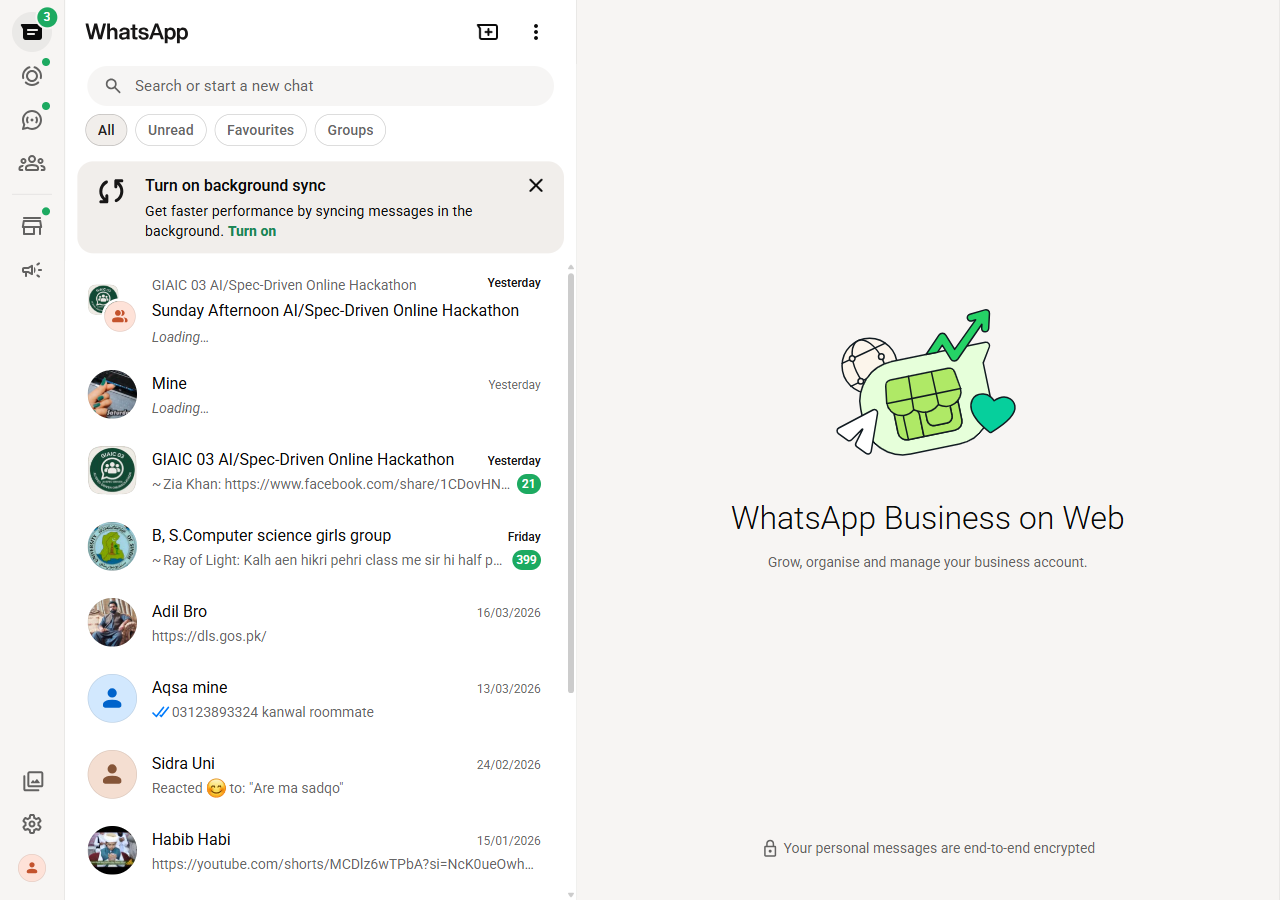
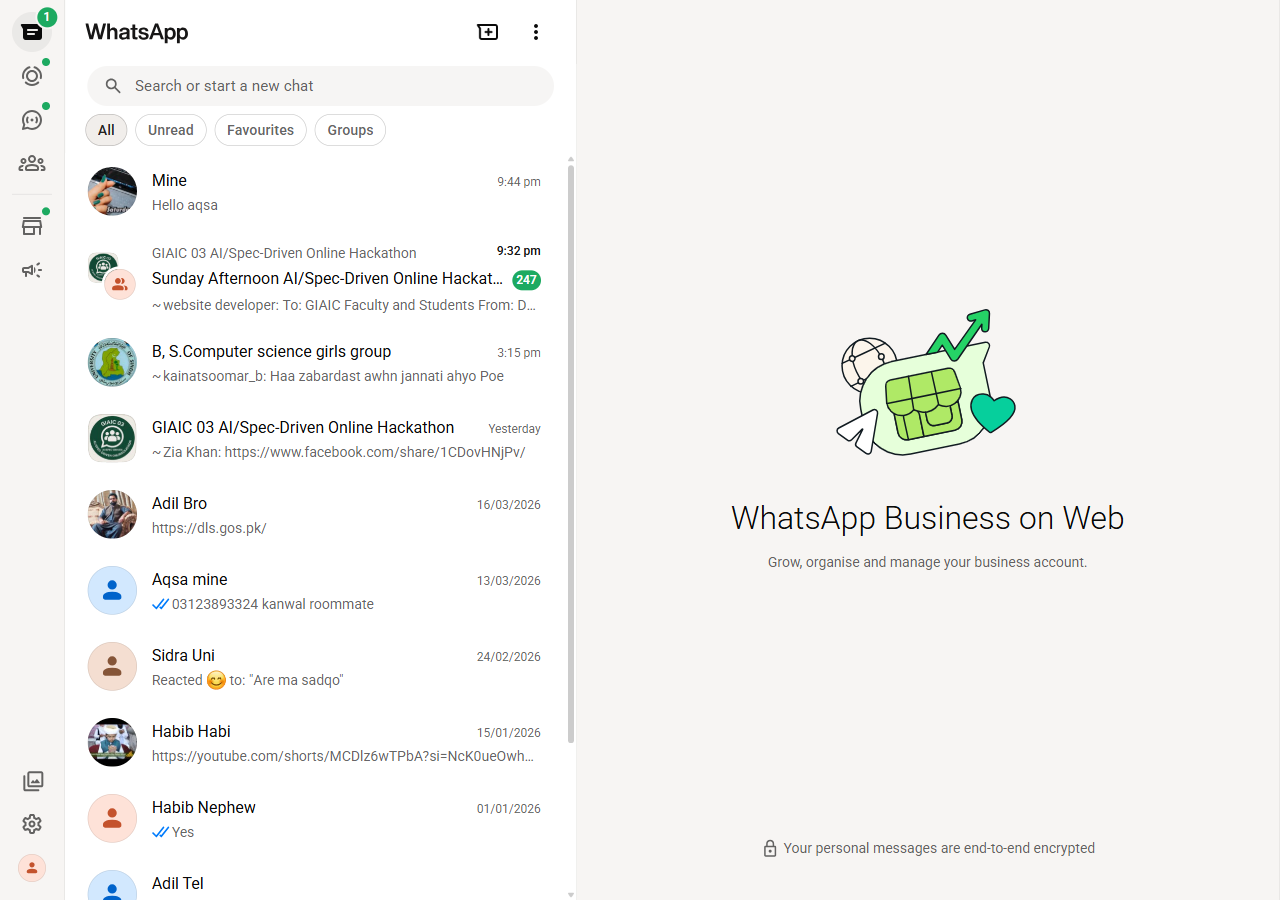
.

Changed region(s): [[0.0625, 0.1867, 0.4688, 1.0], [0.375, 0.7156, 0.4375, 0.7778], [0.4375, 0.7778, 0.4688, 0.8089]]

diff --git a/watchers/whatsapp_watcher.py b/watchers/whatsapp_watcher.py
@@ -84,6 +84,13 @@ def _safe_name(text: str) -> str:
 def _launch(p, headless: bool = False):
     """Launch persistent context — preserves IndexedDB for WhatsApp Web session."""
     BROWSER_DIR.mkdir(parents=True, exist_ok=True)
+    # Remove stale lockfile if exists (left by crashed process)
+    lockfile = BROWSER_DIR / "lockfile"
+    if lockfile.exists():
+        try:
+            lockfile.unlink()
+        except Exception:
+            pass
     context = p.chromium.launch_persistent_context(
         str(BROWSER_DIR),
         headless=headless,
@@ -270,18 +277,7 @@ def check_messages() -> list:
                             break
                     contact = name_el.inner_text().strip() if name_el else "Unknown"
 
-                    # Skip groups — group previews show "~ SenderName:" prefix
-                    # Also skip if chat has group icon (multiple people icon)
-                    preview_el = chat.query_selector("[data-testid='last-msg-status'] ~ span, span[dir='ltr']")
-                    preview_text = preview_el.inner_text().strip() if preview_el else ""
-                    is_group = (
-                        preview_text.startswith("~") or          # group message prefix
-                        re.search(r"^\+?\d{10,}", preview_text) or  # phone number prefix
-                        chat.query_selector("[data-testid='group']") is not None
-                    )
-                    if is_group:
-                        logger.info(f"Skipping group: {contact}")
-                        continue
+                    # Groups allowed — don't skip them
 
                     chat_id = f"wa_{_safe_name(contact)}_{datetime.now().strftime('%Y%m%d')}"
                     if chat_id in seen_ids:
@@ -294,13 +290,35 @@ def check_messages() -> list:
                     chat_texts = []
                     for m in msg_els[-10:]:
                         try:
-                            t = m.query_selector("[data-testid='msg-text'], .copyable-text span")
-                            if t:
-                                txt = t.inner_text().strip()
-                                if txt:
-                                    chat_texts.append(txt)
+                            # Try multiple selectors for message text
+                            txt = ""
+                            for txt_sel in [
+                                "[data-testid='msg-text']",
+                                ".selectable-text span[class*='selectable']",
+                                ".selectable-text",
+                                "span.copyable-text",
+                                ".copyable-text span",
+                                "span[dir='ltr']",
+                                "span[dir='rtl']",
+                            ]:
+                                t = m.query_selector(txt_sel)
+                                if t:
+                                    txt = t.inner_text().strip()
+                                    if txt:
+                                        break
+                            if txt:
+                                chat_texts.append(txt)
                         except Exception:
                             pass
+                    # Fallback: get all visible text from last 5 message elements
+                    if not chat_texts and msg_els:
+                        for m in msg_els[-5:]:
+                            try:
+                                txt = m.inner_text().strip()
+                                if txt and len(txt) > 2:
+                                    chat_texts.append(txt[:300])
+                            except Exception:
+                                pass
 
                     messages.append({"contact": contact, "messages": chat_texts, "chat_id": chat_id})
                     seen_ids.add(chat_id)
@@ -473,14 +491,27 @@ def send_reply(contact: str, message: str) -> dict:
             time.sleep(2)
 
             # Search for contact
-            search = page.wait_for_selector(
-                "[data-testid='chat-list-search'], [aria-label='Search input textbox']",
-                timeout=10000,
-            )
+            search = None
+            for s_sel in [
+                "[data-testid='chat-list-search']",
+                "[aria-label='Search input textbox']",
+                "[aria-label='Search or start new chat']",
+                "div[contenteditable='true'][data-tab='3']",
+                "#side div[contenteditable='true']",
+            ]:
+                try:
+                    search = page.wait_for_selector(s_sel, timeout=5000)
+                    if search and search.is_visible():
+                        break
+                except Exception:
+                    continue
+            if not search:
+                context.close()
+                return {"status": "error", "message": "Could not find search box"}
             search.click()
             time.sleep(1)
             page.keyboard.type(contact, delay=80)
-            time.sleep(2)
+            time.sleep(3)
 
             page.screenshot(path=str(debug_dir / "wa_2_search.png"))
 

diff --git a/AI_Employee_Vault/Pending_Approval/LINKEDIN_2026-03-29.md b/AI_Employee_Vault/Pending_Approval/LINKEDIN_2026-03-29.md
@@ -1,0 +1,50 @@
+---
+type: linkedin_post
+topic: AI project updates
+drafted: 2026-03-29T16:05:28.371054+00:00
+status: pending_approval
+char_count: 1328
+---
+
+# LinkedIn Post — 2026-03-29
+
+> **Topic:** AI project updates
+> **Drafted by:** AI Employee (LinkedIn Scheduler)
+> **Char count:** 1328 / 1300
+
+---
+
+## Post Content
+
+Most AI projects don't fail because of bad models.
+
+They fail because nobody thought about what happens after the demo.
+
+I've been deep in AI project work lately, and here's what I keep seeing:
+
+Teams rush to build the smartest model possible. They nail the prototype. The demo looks incredible. Everyone celebrates.
+
+Then reality hits.
+
+The model can't handle real-world data. There's no pipeline to retrain it. The API breaks under actual load. Nobody planned for edge cases. And the "AI product" quietly becomes a slideshow from last quarter.
+
+Here's what I've learned building AI systems that actually run in production:
+
+→ Start with the infrastructure, not the algorithm
+→ Build retraining loops from day one
+→ Design for the worst input, not the best demo
+→ Treat monitoring as a feature, not an afterthought
+→ If a human still needs to babysit it 24/7, it's not automation
+
+The gap between an AI proof-of-concept and an AI system that works while you sleep is massive. And that gap isn't filled with fancier models. It's filled with solid engineering.
+
+Right now I'm focused on closing exactly that gap — building full stack AI systems where the backend, the model, and the deployment pipeline all talk to each other reliably.
+
+What's the biggest challenge you've faced taking an AI project from prototype to production?
+
+---
+
+## Instructions
+- **APPROVE:** Move this file to `/Approved/` — LinkedIn Watcher will auto-post it
+- **EDIT:** Edit the Post Content above, then move to `/Approved/`
+- **REJECT:** Move this file to `/Rejected/`

diff --git a/AI_Employee_Vault/Pending_Approval/WHATSAPP_REPLY_2026-03-29_GIAIC_03_AI_Spec-Driven_Online_Hackathon.md b/AI_Employee_Vault/Pending_Approval/WHATSAPP_REPLY_2026-03-29_GIAIC_03_AI_Spec-Driven_Online_Hackathon.md
@@ -1,0 +1,25 @@
+---
+type: whatsapp_reply
+contact: GIAIC 03 AI/Spec-Driven Online Hackathon
+drafted: 2026-03-29T16:56:44.989414+00:00
+status: pending_approval
+---
+
+# WhatsApp Reply — GIAIC 03 AI/Spec-Driven Online Hackathon — 2026-03-29
+
+> **To:** GIAIC 03 AI/Spec-Driven Online Hackathon
+> **Original message:**
+- (no text)
+
+---
+
+## Reply Content
+
+Hey! Thanks for reaching out. Just checking in – did you have something you wanted to discuss about the hackathon, or were you looking for specific info? Let me know how I can help!
+
+---
+
+## Instructions
+- **APPROVE:** Move to `/Approved/` — WhatsApp Watcher will auto-send it
+- **EDIT:** Edit Reply Content above, then move to `/Approved/`
+- **REJECT:** Move to `/Rejected/`

diff --git a/AI_Employee_Vault/Pending_Approval/WHATSAPP_REPLY_2026-03-29_B__S_Computer_science_girls_group.md b/AI_Employee_Vault/Pending_Approval/WHATSAPP_REPLY_2026-03-29_B__S_Computer_science_girls_group.md
@@ -1,0 +1,25 @@
+---
+type: whatsapp_reply
+contact: B, S.Computer science girls group
+drafted: 2026-03-29T16:42:24.089978+00:00
+status: pending_approval
+---
+
+# WhatsApp Reply — B, S.Computer science girls group — 2026-03-29
+
+> **To:** B, S.Computer science girls group
+> **Original message:**
+- (no text)
+
+---
+
+## Reply Content
+
+Hey! Thanks for reaching out. Just checking in – did you need something specific or just saying hi? Let me know how I can help!
+
+---
+
+## Instructions
+- **APPROVE:** Move to `/Approved/` — WhatsApp Watcher will auto-send it
+- **EDIT:** Edit Reply Content above, then move to `/Approved/`
+- **REJECT:** Move to `/Rejected/`

diff --git a/AI_Employee_Vault/Pending_Approval/WHATSAPP_REPLY_2026-03-29_Mine.md b/AI_Employee_Vault/Pending_Approval/WHATSAPP_REPLY_2026-03-29_Mine.md
@@ -1,0 +1,25 @@
+---
+type: whatsapp_reply
+contact: Mine
+drafted: 2026-03-29T16:56:42.514792+00:00
+status: pending_approval
+---
+
+# WhatsApp Reply — Mine — 2026-03-29
+
+> **To:** Mine
+> **Original message:**
+- (no text)
+
+---
+
+## Reply Content
+
+I don't see any message from Mine to reply to. Could you share what they wrote so I can help you draft a response?
+
+---
+
+## Instructions
+- **APPROVE:** Move to `/Approved/` — WhatsApp Watcher will auto-send it
+- **EDIT:** Edit Reply Content above, then move to `/Approved/`
+- **REJECT:** Move to `/Rejected/`

diff --git a/AI_Employee_Vault/Approved/WHATSAPP_REPLY_2026-03-29_Mine.md b/AI_Employee_Vault/Approved/WHATSAPP_REPLY_2026-03-29_Mine.md
@@ -1,0 +1,25 @@
+---
+type: whatsapp_reply
+contact: Mine
+drafted: 2026-03-29T16:44:52.047801+00:00
+status: pending_approval
+---
+
+# WhatsApp Reply — Mine — 2026-03-29
+
+> **To:** Mine
+> **Original message:**
+- (no text)
+
+---
+
+## Reply Content
+
+Hey! Did you mean to send something? I didn't get a message from you 😊
+
+---
+
+## Instructions
+- **APPROVE:** Move to `/Approved/` — WhatsApp Watcher will auto-send it
+- **EDIT:** Edit Reply Content above, then move to `/Approved/`
+- **REJECT:** Move to `/Rejected/`

diff --git a/AI_Employee_Vault/Inbox/WHATSAPP_20260329_215642_GIAIC_03_AI_Spec-Driven_Online_Hackathon.md b/AI_Employee_Vault/Inbox/WHATSAPP_20260329_215642_GIAIC_03_AI_Spec-Driven_Online_Hackathon.md
@@ -1,0 +1,23 @@
+---
+type: whatsapp_message
+contact: GIAIC 03 AI/Spec-Driven Online Hackathon
+received: 2026-03-29T16:56:42.526589+00:00
+status: needs_action
+---
+
+# WhatsApp — GIAIC 03 AI/Spec-Driven Online Hackathon — 2026-03-29 21:56
+
+> **From:** GIAIC 03 AI/Spec-Driven Online Hackathon
+> **Received:** 2026-03-29 21:56:42
+
+---
+
+## Messages
+
+- (no text)
+
+---
+
+## Instructions
+- Run `/process-inbox` to let Claude draft a reply
+- Reply file will appear in `Pending_Approval/WHATSAPP_REPLY_*.md`

diff --git a/AI_Employee_Vault/Inbox/WHATSAPP_20260329_214221_B__S_Computer_science_girls_group.md b/AI_Employee_Vault/Inbox/WHATSAPP_20260329_214221_B__S_Computer_science_girls_group.md
@@ -1,0 +1,23 @@
+---
+type: whatsapp_message
+contact: B, S.Computer science girls group
+received: 2026-03-29T16:42:21.388169+00:00
+status: needs_action
+---
+
+# WhatsApp — B, S.Computer science girls group — 2026-03-29 21:42
+
+> **From:** B, S.Computer science girls group
+> **Received:** 2026-03-29 21:42:21
+
+---
+
+## Messages
+
+- (no text)
+
+---
+
+## Instructions
+- Run `/process-inbox` to let Claude draft a reply
+- Reply file will appear in `Pending_Approval/WHATSAPP_REPLY_*.md`

diff --git a/AI_Employee_Vault/Inbox/WHATSAPP_20260329_214448_Mine.md b/AI_Employee_Vault/Inbox/WHATSAPP_20260329_214448_Mine.md
@@ -1,0 +1,23 @@
+---
+type: whatsapp_message
+contact: Mine
+received: 2026-03-29T16:44:48.248182+00:00
+status: needs_action
+---
+
+# WhatsApp — Mine — 2026-03-29 21:44
+
+> **From:** Mine
+> **Received:** 2026-03-29 21:44:48
+
+---
+
+## Messages
+
+- (no text)
+
+---
+
+## Instructions
+- Run `/process-inbox` to let Claude draft a reply
+- Reply file will appear in `Pending_Approval/WHATSAPP_REPLY_*.md`

diff --git a/AI_Employee_Vault/Inbox/WHATSAPP_20260329_215639_Mine.md b/AI_Employee_Vault/Inbox/WHATSAPP_20260329_215639_Mine.md
@@ -1,0 +1,23 @@
+---
+type: whatsapp_message
+contact: Mine
+received: 2026-03-29T16:56:39.259952+00:00
+status: needs_action
+---
+
+# WhatsApp — Mine — 2026-03-29 21:56
+
+> **From:** Mine
+> **Received:** 2026-03-29 21:56:39
+
+---
+
+## Messages
+
+- (no text)
+
+---
+
+## Instructions
+- Run `/process-inbox` to let Claude draft a reply
+- Reply file will appear in `Pending_Approval/WHATSAPP_REPLY_*.md`
